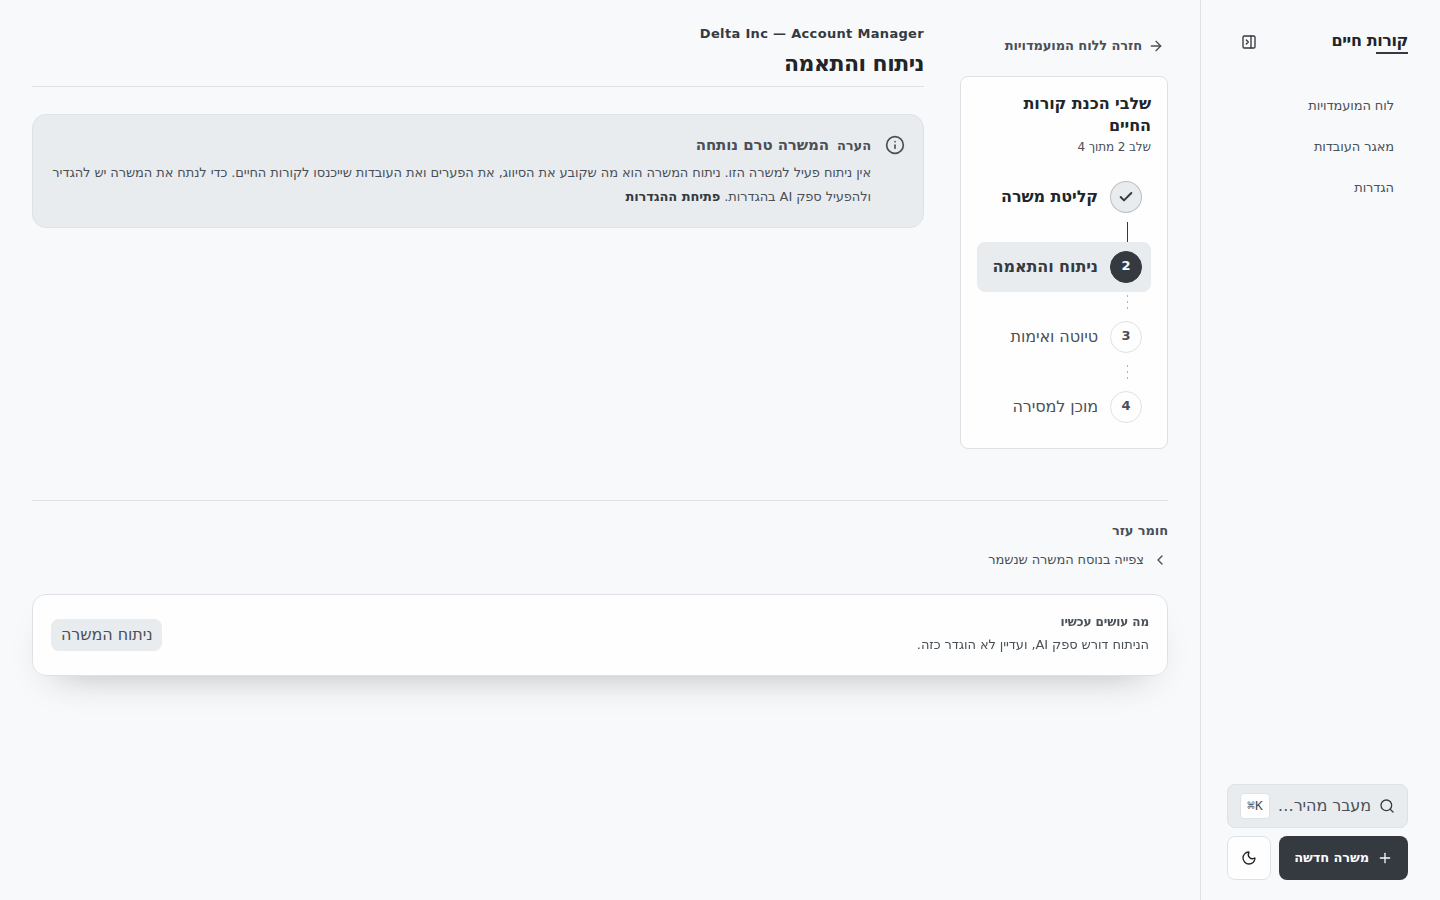
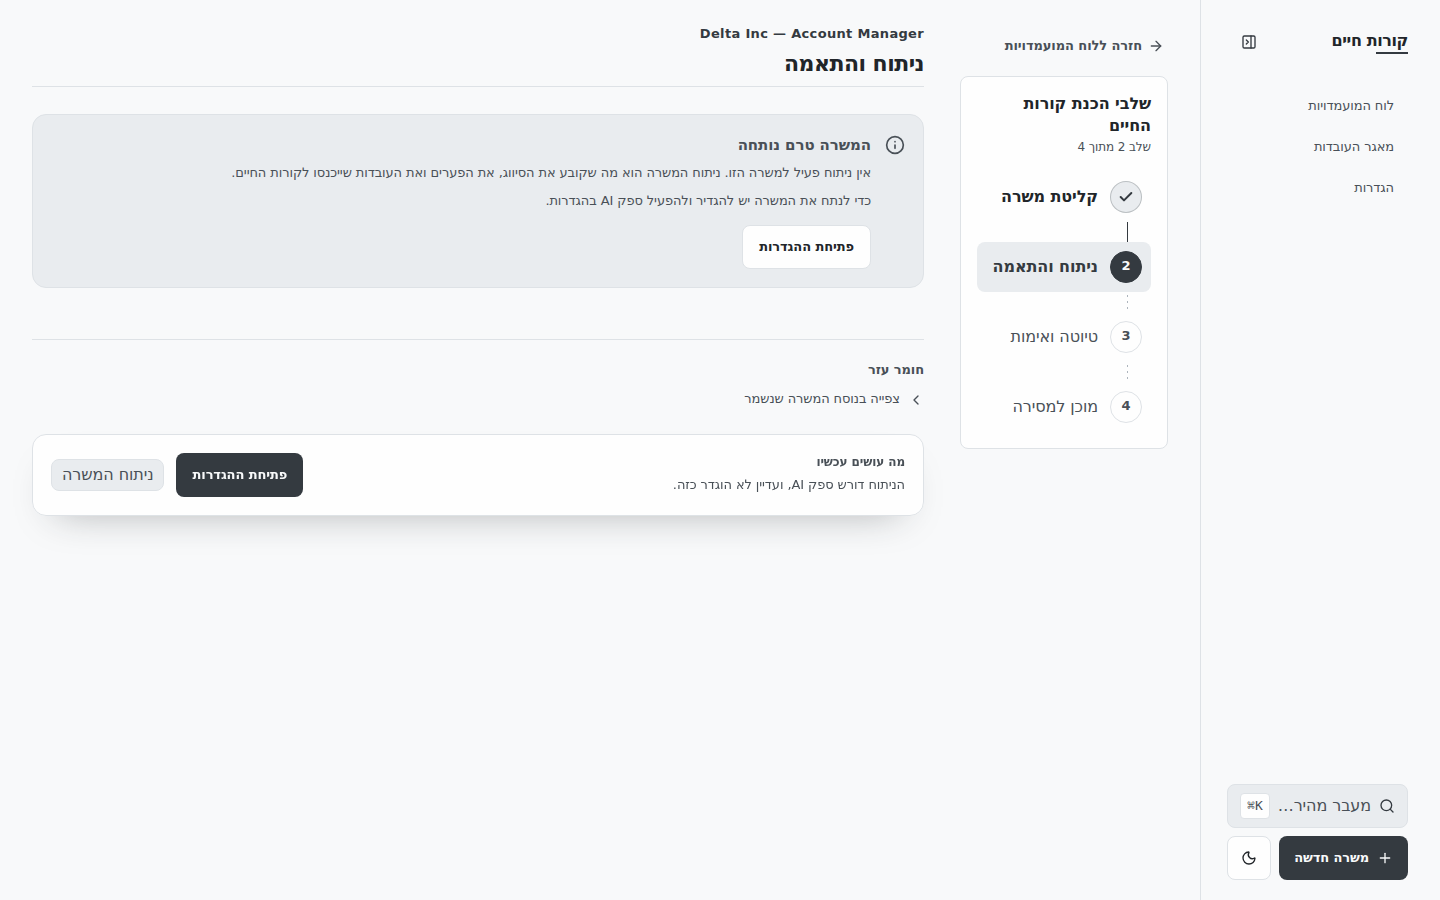
Analysis step without a provider: no hole, a real fix action, a calmer failure
- The analysis step takes its full-width row only once an analysis exists. Before that
  the row held just the reference material and the bar, parked below the step rail with
  a gap the rail's height under a one-banner step. The shell now keeps one tree either
  way, so turning the row on does not remount the step.
- The "not analyzed yet" banner gives the Settings fix its own line and a button, and
  a neutral banner no longer prefixes its title with "הערה".
- With no provider, the commit bar leads with "פתיחת ההגדרות"; the inert analysis
  button stays beside it as secondary.
- A failure for want of a provider keeps the posting folded: the fix is in Settings,
  not in the posting.
- Operation report: execution details follow the failure and its fix; a finished run's
  summary shows its outcome icon instead of a clock; the Settings action sits in the
  report's action row where the retry was.
- A refused AI run stops reading as an open blocker once a provider is available: the
  run row says "נכשלה · אפשר לנסות שוב" in the warning tone.

Claude-Session: https://claude.ai/code/session_017VWSom5UTdr8gTcfqrSNap

diff --git a/frontend/src/features/operations/components/OperationReport.tsx b/frontend/src/features/operations/components/OperationReport.tsx
@@ -8,6 +8,8 @@ import { aiRegenerationAvailable } from "@/api/settings";
 import { useSettings } from "@/api/useSettings";
 import { routePaths } from "@/app/routePaths";
 import { buttonClasses } from "@/ui/Button";
+import { cx } from "@/ui/cx";
+import { tonePresentation } from "@/ui/tone";
 import { Callout } from "@/ui/Callout";
 import { StatusBadge } from "@/ui/StatusBadge";
 import { OperationActions } from "./OperationActions";
@@ -87,15 +89,20 @@ export const OperationReport = ({
     : operation.failure_code == null
       ? null
       : failurePresentations[operation.failure_code];
-  const recovery = missingProvider ? (
-    <Link className={buttonClasses("primary")} to={routePaths.settings}>
-      פתיחת ההגדרות
-    </Link>
-  ) : (
-    failureAction
-  );
+  /* In the report's action row, where the retry it replaces would have been - not inside
+     the failure explanation, which left the dialog with no action at its foot. */
+  const settingsAction = missingProvider ? (
+    <div className="mt-2 flex flex-wrap gap-3 border-t border-cv-border pt-5">
+      <Link className={buttonClasses("primary")} to={routePaths.settings}>
+        פתיחת ההגדרות
+      </Link>
+    </div>
+  ) : null;
   const actionableDetail = actionableFailureDetail(operation.failure_code, operation.safe_failure_detail);
   const produced = activeOutputLabels(operation);
+  const settledOutcome = terminal && continuation === undefined;
+  const SummaryIcon = settledOutcome ? tonePresentation[statusTones[operation.status]].icon : Clock3;
+  const summaryIconClass = settledOutcome ? "text-cv-text-muted" : "text-cv-accent";
   const summary =
     continuation ??
     (terminal
@@ -114,7 +121,9 @@ export const OperationReport = ({
 
       <div className="rounded-control border border-cv-border bg-cv-surface-muted p-3.5 sm:p-4">
         <div className="flex items-start gap-3">
-          <Clock3 aria-hidden="true" className="mt-0.5 size-icon-md shrink-0 text-cv-accent" />
+          {/* A clock is for work that is waiting or running; a finished run shows its
+              outcome's own icon, so "failed" is not drawn beside a timer. */}
+          <SummaryIcon aria-hidden="true" className={cx("mt-0.5 size-icon-md shrink-0", summaryIconClass)} />
           <div className="min-w-0 flex-1">
             <p className="text-support font-medium leading-6 text-cv-text" dir="auto">
               {summary}
@@ -144,8 +153,6 @@ export const OperationReport = ({
         )}
       </div>
 
-      <OperationExecutionDetails operation={operation} />
-
       {failure === null && operation.safe_failure_detail == null ? null : (
         <Callout
           role="alert"
@@ -165,9 +172,12 @@ export const OperationReport = ({
               {failure.guidance}
             </p>
           )}
-          {recovery === undefined ? null : <div className="mt-3 flex flex-wrap gap-3">{recovery}</div>}
+          {failureAction === undefined ? null : <div className="mt-3 flex flex-wrap gap-3">{failureAction}</div>}
         </Callout>
       )}
+
+      {/* Technical detail after the reason and its fix, not between the status and them. */}
+      <OperationExecutionDetails operation={operation} />
 
       {operation.cancellation_requested_at != null && !operation.is_terminal ? (
         <Callout title="בקשת הביטול התקבלה" tone="info">
@@ -189,6 +199,7 @@ export const OperationReport = ({
           showCancel={showCancel}
         />
       ) : null}
+      {settingsAction}
     </div>
   );
 };

diff --git a/frontend/src/features/applications/pages/ApplicationPage.tsx b/frontend/src/features/applications/pages/ApplicationPage.tsx
@@ -4,6 +4,8 @@ import { useLocation } from "react-router-dom";
 
 import { applicationDetailQueryOptions } from "@/api/applications";
 import type { ProblemDetails } from "@/api/client";
+import { aiRegenerationAvailable } from "@/api/settings";
+import { useSettings } from "@/api/useSettings";
 import { useRequiredParam } from "@/app/useRequiredParam";
 import { Callout } from "@/ui/Callout";
 import { Disclosure } from "@/ui/Disclosure";
@@ -112,6 +114,14 @@ export const ApplicationPage = () => {
     operation: watched,
   });
   const pending = watched === undefined && viewState === "processing" ? analysisPending : undefined;
+  /* A failed analysis opens the posting for repair, because a malformed posting is one
+     cause the reader can fix there. A refusal with no usable provider is not one of
+     them: the fix is in Settings, and an open posting with an edit action pointed the
+     reader at the wrong place. */
+  const { settings } = useSettings();
+  const postingRepairRelevant =
+    viewState === "analysis_failed" &&
+    !(watched?.failure_code === "PROVIDER_REFUSED" && settings !== undefined && !aiRegenerationAvailable(settings));
   const operationLive = isOperationLive({
     awaitingRecord,
     continuation,
@@ -142,7 +152,10 @@ export const ApplicationPage = () => {
       detail={detail}
       measure="wide"
       queryError={query.error}
-      wideRow
+      /* Only once there is an analysis to lay out across it. Before that the wide row
+         holds nothing but the reference material and the bar, and parking them below the
+         rail left a hole the rail's height under a one-banner step. */
+      wideRow={detail?.latest_analysis != null}
       /* Held at one line's width while the projection is in flight. Absent, the masthead
          drew the heading a line higher and dropped it when the name arrived - the page's
          own title moving under the reader as the first thing it did. */
@@ -239,7 +252,7 @@ export const ApplicationPage = () => {
                 <div className="flex flex-col gap-2 border-t border-cv-border pt-5">
                   <p className="text-support font-semibold text-cv-text-muted">חומר עזר</p>
 
-                  {viewState === "analysis_failed" ? (
+                  {postingRepairRelevant ? (
                     /* Repair is the task now, not optional reference reading. Keep the
                        posting and its edit action in view instead of nesting them behind a
                        second disclosure the reader has no reason to discover. */

diff --git a/frontend/src/features/preparation/stages/verification/WorkflowActions.tsx b/frontend/src/features/preparation/stages/verification/WorkflowActions.tsx
@@ -2,6 +2,7 @@ import { type ReactElement, useState } from "react";
 import { Link } from "react-router-dom";
 
 import { aiRegenerationAvailable } from "@/api/settings";
+import { routePaths } from "@/app/routePaths";
 import type { ApplicationDetail } from "@/api/contracts";
 import { ErrorCallout } from "@/ui/ErrorCallout";
 import { Button, buttonClasses } from "@/ui/Button";
@@ -61,6 +62,11 @@ export const WorkflowActions = ({ detail, hasRecommendation, onQueued, operation
      where the analysis it re-runs is on screen, in the diagnostics tab. The first analyze
      of an Application that has none stays exactly here: there is no analysis yet for a
      diagnostics tab to show. */
+  /* A first analysis with no provider cannot be pressed, so the bar leads with the one
+     thing that unblocks it. The inert analysis button stays beside it, secondary, so the
+     step still names its action. */
+  const providerMissing =
+    plan.analyze !== null && !plan.analyze.reanalysis && settings !== undefined && !aiRegenerationAvailable(settings);
   const analyzeButton =
     plan.analyze === null || plan.analyze.reanalysis ? null : (
       <Button
@@ -69,11 +75,16 @@ export const WorkflowActions = ({ detail, hasRecommendation, onQueued, operation
         onClick={() => analyze.mutate()}
         pending={analyze.isPending}
         pendingLabel="מפעיל ניתוח…"
-        variant={plan.analyze.emphasized ? "primary" : "secondary"}
+        variant={plan.analyze.emphasized && !providerMissing ? "primary" : "secondary"}
       >
         ניתוח המשרה
       </Button>
     );
+  const settingsButton = providerMissing ? (
+    <Link className={buttonClasses("primary")} key="settings" to={routePaths.settings}>
+      פתיחת ההגדרות
+    </Link>
+  ) : null;
 
   const draftButton =
     plan.createDraft === null ? null : (
@@ -162,6 +173,7 @@ export const WorkflowActions = ({ detail, hasRecommendation, onQueued, operation
     { emphasized: false, node: archiveButton },
     { emphasized: plan.draftScreen?.emphasized === true, node: draftScreenButton },
     { emphasized: plan.readyRevision?.emphasized === true, node: readyButton },
+    { emphasized: true, node: settingsButton },
   ].filter((entry): entry is { emphasized: boolean; node: ReactElement } => entry.node !== null);
   const emphasizedEntry =
     inWorkflowOrder.find((entry) => entry.emphasized) ?? inWorkflowOrder[inWorkflowOrder.length - 1];

diff --git a/frontend/src/features/operations/components/OperationOverlay.test.tsx b/frontend/src/features/operations/components/OperationOverlay.test.tsx
@@ -54,18 +54,21 @@ interface OverlayProps {
 
 /* One host screen across several reads: each `update` is the next render of the same
    overlay, the way a watch hands it a new record. */
-const renderOverlay = (initial: OverlayProps) => {
+const renderOverlay = (initial: OverlayProps, settings?: ReturnType<typeof settingsFixture>) => {
   const queryClient = client();
+  if (settings !== undefined) queryClient.setQueryData(settingsQueryKey, { settings, etag: null });
   const view = (props: OverlayProps): ReactElement => (
     <QueryClientProvider client={queryClient}>
-      <OperationOverlay
-        awaitingRecord={props.awaitingRecord ?? false}
-        continuation={props.continuation}
-        onQueued={vi.fn()}
-        operation={props.operation}
-        pending={props.pending}
-        settled={props.settled ?? false}
-      />
+      <MemoryRouter>
+        <OperationOverlay
+          awaitingRecord={props.awaitingRecord ?? false}
+          continuation={props.continuation}
+          onQueued={vi.fn()}
+          operation={props.operation}
+          pending={props.pending}
+          settled={props.settled ?? false}
+        />
+      </MemoryRouter>
     </QueryClientProvider>
   );
   const result = render(view(initial));
@@ -351,6 +354,26 @@ describe("OperationReport", () => {
 describe("OperationOverlay", () => {
   afterEach(() => {
     vi.useRealTimers();
+  });
+
+  /* Once a provider is available, a refused run no longer blocks anything: the row says
+     it can be tried again and stops wearing the blocker tone. */
+  it("stops presenting a refused run as an open blocker once a provider is available", () => {
+    const refused = failed({ failure_code: "PROVIDER_REFUSED", available_actions: ["retry"] });
+    renderOverlay(
+      { operation: refused, settled: true },
+      settingsFixture({ provider_configured: true, ai_enabled: true }),
+    );
+
+    expect(chip()).toHaveTextContent("נכשלה · אפשר לנסות שוב");
+  });
+
+  it("keeps a refused run a plain failure while no provider is available", () => {
+    const refused = failed({ failure_code: "PROVIDER_REFUSED", available_actions: ["retry"] });
+    renderOverlay({ operation: refused, settled: true }, settingsFixture());
+
+    expect(chip()).toHaveTextContent("נכשלה");
+    expect(chip()).not.toHaveTextContent("אפשר לנסות שוב");
   });
 
   it("opens over the page while work runs", () => {

diff --git a/frontend/src/features/applications/pages/ApplicationPage.preparation.test.tsx b/frontend/src/features/applications/pages/ApplicationPage.preparation.test.tsx
@@ -529,7 +529,11 @@ describe("ApplicationPage at the preparation route", () => {
        "not analyzed yet" banner. */
     expect(screen.getByText("הניתוח דורש ספק AI, ועדיין לא הוגדר כזה.")).toBeInTheDocument();
     expect(screen.getByText(/כדי לנתח את המשרה יש להגדיר ולהפעיל ספק AI בהגדרות/)).toBeInTheDocument();
-    expect(screen.getByRole("link", { name: "פתיחת ההגדרות" })).toHaveAttribute("href", "/settings");
+    /* The fix is offered twice on purpose: under the explanation in the banner, and as the
+       bar's lead action in place of the inert analysis button. */
+    const settingsLinks = screen.getAllByRole("link", { name: "פתיחת ההגדרות" });
+    expect(settingsLinks).toHaveLength(2);
+    for (const link of settingsLinks) expect(link).toHaveAttribute("href", "/settings");
   });
 
   it("shows the frozen AI execution and its calculated cost", async () => {
@@ -817,6 +821,32 @@ describe("ApplicationPage at the preparation route", () => {
        posts to the analyses collection rather than to that Operation's retry route. */
     expect(request?.[0]).toBe(ANALYSES_PATH);
     expect(JSON.parse(String(request?.[1]?.body))).toEqual({ job_snapshot_id: "snap-1", provider: "openai" });
+  });
+
+  /* A refusal with no provider is fixed in Settings, not in the posting, so the posting
+     stays folded away like on any other visit instead of opening with its edit action. */
+  it("keeps the posting folded when analysis failed for want of a provider", async () => {
+    const failed = queued({
+      status: "failed",
+      is_terminal: true,
+      failure_code: "PROVIDER_REFUSED",
+      available_actions: ["retry"],
+    });
+    vi.stubGlobal(
+      "fetch",
+      vi.fn((input: RequestInfo | URL) =>
+        Promise.resolve(
+          String(input).includes("/settings")
+            ? jsonResponse(deterministicSettings)
+            : jsonResponse(detail({ latest_operation: failed, active_operation: null })),
+        ),
+      ),
+    );
+
+    renderPage(deterministicSettings);
+
+    expect(await screen.findByText("צפייה בנוסח המשרה שנשמר")).toBeInTheDocument();
+    expect(screen.queryByRole("button", { name: "עדכון נוסח המשרה" })).not.toBeVisible();
   });
 
   it("keeps the stored posting and its update action reachable after analysis fails", async () => {

diff --git a/frontend/src/features/operations/components/OperationOverlay.tsx b/frontend/src/features/operations/components/OperationOverlay.tsx
@@ -3,6 +3,8 @@ import { type ReactNode, useId, useRef, useState } from "react";
 
 import type { Operation } from "@/api/contracts";
 import { isTerminalOperation } from "@/api/operations";
+import { aiRegenerationAvailable } from "@/api/settings";
+import { useSettings } from "@/api/useSettings";
 import { cx } from "@/ui/cx";
 import { Dialog } from "@/ui/Dialog";
 import { LiveRegion } from "@/ui/LiveRegion";
@@ -85,6 +87,7 @@ export const OperationOverlay = ({
   settled: boolean;
 }) => {
   const headingId = useId();
+  const { settings } = useSettings();
   const chipRef = useRef<HTMLButtonElement>(null);
   const [session, setSession] = useState<Session>({ active: false, historyId: null, open: false });
 
@@ -122,14 +125,25 @@ export const OperationOverlay = ({
   const typeLabel = operation === undefined ? null : operationTypeLabels[operation.operation_type];
   const heading = pending?.heading ?? (typeLabel === null ? "הרצה" : <>הרצת {typeLabel}</>);
   const continuing = continuation !== undefined;
-  const tone: Tone = record === undefined || continuing ? "progress" : statusTones[record.status];
+  /* A refused AI run is history once a provider is available again: it no longer blocks
+     anything, and a fresh run may succeed. The row stops drawing it as an open blocker
+     and says what can be done, instead of staying red until the next run replaces it. */
+  const retryableRefusal =
+    record?.status === "failed" &&
+    record.failure_code === "PROVIDER_REFUSED" &&
+    settings !== undefined &&
+    aiRegenerationAvailable(settings);
+  const tone: Tone =
+    record === undefined || continuing ? "progress" : retryableRefusal ? "warning" : statusTones[record.status];
   const statusText =
     record === undefined
       ? PENDING_LABEL
       : continuing
         ? "ממשיכה לשלב הבא"
         : isTerminalOperation(record)
-          ? statusLabels[record.status]
+          ? retryableRefusal
+            ? `${statusLabels[record.status]} · אפשר לנסות שוב`
+            : statusLabels[record.status]
           : operationProgressLabel(record);
   /* A.5: the chip is mounted for as long as there is anything to report, hidden overlay
      or not, so it is the one place the run's progress is announced from. The same single

diff --git a/frontend/src/features/preparation/components/AnalysisStatusBanner.tsx b/frontend/src/features/preparation/components/AnalysisStatusBanner.tsx
@@ -3,6 +3,7 @@ import { Link } from "react-router-dom";
 
 import type { Classification } from "@/api/analyses";
 import { routePaths } from "@/app/routePaths";
+import { buttonClasses } from "@/ui/Button";
 import { Callout } from "@/ui/Callout";
 import type { Tone } from "@/ui/tone";
 import { confidenceText, fitDescriptions, fitLabels, fitTones } from "../model/analysisLabels";
@@ -69,17 +70,22 @@ export const AnalysisStatusBanner = ({
   const needsProvider = providerMissing && classification === null && !supersededAnalysis;
 
   return (
-    <Callout emphasis="banner" title={title} tone={tone}>
-      {body}
-      {needsProvider ? (
-        <>
-          {" "}
-          כדי לנתח את המשרה יש להגדיר ולהפעיל ספק AI בהגדרות.{" "}
-          <Link className="font-semibold text-cv-accent hover:underline" to={routePaths.settings}>
+    <Callout
+      /* The fix as a control on its own line, not a link at the tail of the explanation
+         where it read as more of the same sentence. */
+      action={
+        needsProvider ? (
+          <Link className={buttonClasses("secondary")} to={routePaths.settings}>
             פתיחת ההגדרות
           </Link>
-        </>
-      ) : null}
+        ) : undefined
+      }
+      emphasis="banner"
+      title={title}
+      tone={tone}
+    >
+      <p>{body}</p>
+      {needsProvider ? <p className="mt-1">כדי לנתח את המשרה יש להגדיר ולהפעיל ספק AI בהגדרות.</p> : null}
     </Callout>
   );
 };

diff --git a/frontend/src/ui/Callout.tsx b/frontend/src/ui/Callout.tsx
@@ -78,7 +78,12 @@ export const Callout = ({ action, children, className, emphasis, role, title, to
         />
         <div className="min-w-0 flex-1">
           <div className="flex flex-wrap items-baseline gap-x-2 gap-y-0.5">
-            <span className={cx("text-support font-bold", toneIconClasses[tone])}>{label}</span>
+            {/* A neutral banner has no state to announce: "הערה" before the one verdict a
+                screen opens with said nothing its title does not. Every other tone keeps
+                its label, which is what separates it from colour alone (A.2). */}
+            {banner && tone === "neutral" ? null : (
+              <span className={cx("text-support font-bold", toneIconClasses[tone])}>{label}</span>
+            )}
             {/* A.3: the tone label is Hebrew, but a callout usually carries a backend
                 title and detail that may be English. dir="auto" lets each run pick its
                 own direction instead of being forced into the RTL shell. */}
@@ -102,7 +107,7 @@ export const Callout = ({ action, children, className, emphasis, role, title, to
               {children}
             </div>
           )}
-          {action === undefined ? null : <div className="mt-1.5 inline-flex">{action}</div>}
+          {action === undefined ? null : <div className={cx("inline-flex", banner ? "mt-3" : "mt-1.5")}>{action}</div>}
         </div>
       </div>
     </Tag>

diff --git a/frontend/src/features/preparation/components/WizardStepShell.tsx b/frontend/src/features/preparation/components/WizardStepShell.tsx
@@ -107,6 +107,10 @@ export const WizardStepShell = ({
     </CommitBarTargetContext.Provider>
   );
 
-  if (!wideRow) return body;
-  return <WideRowTargetContext.Provider value={wideRowTarget}>{body}</WideRowTargetContext.Provider>;
+  /* Always the same tree, so a step that turns its wide row on or off - the analysis
+     step, once an analysis arrives - does not remount its body (and the Operation
+     overlay inside it) at that moment. `undefined` makes `WideRow` render in place. */
+  return (
+    <WideRowTargetContext.Provider value={wideRow ? wideRowTarget : undefined}>{body}</WideRowTargetContext.Provider>
+  );
 };
